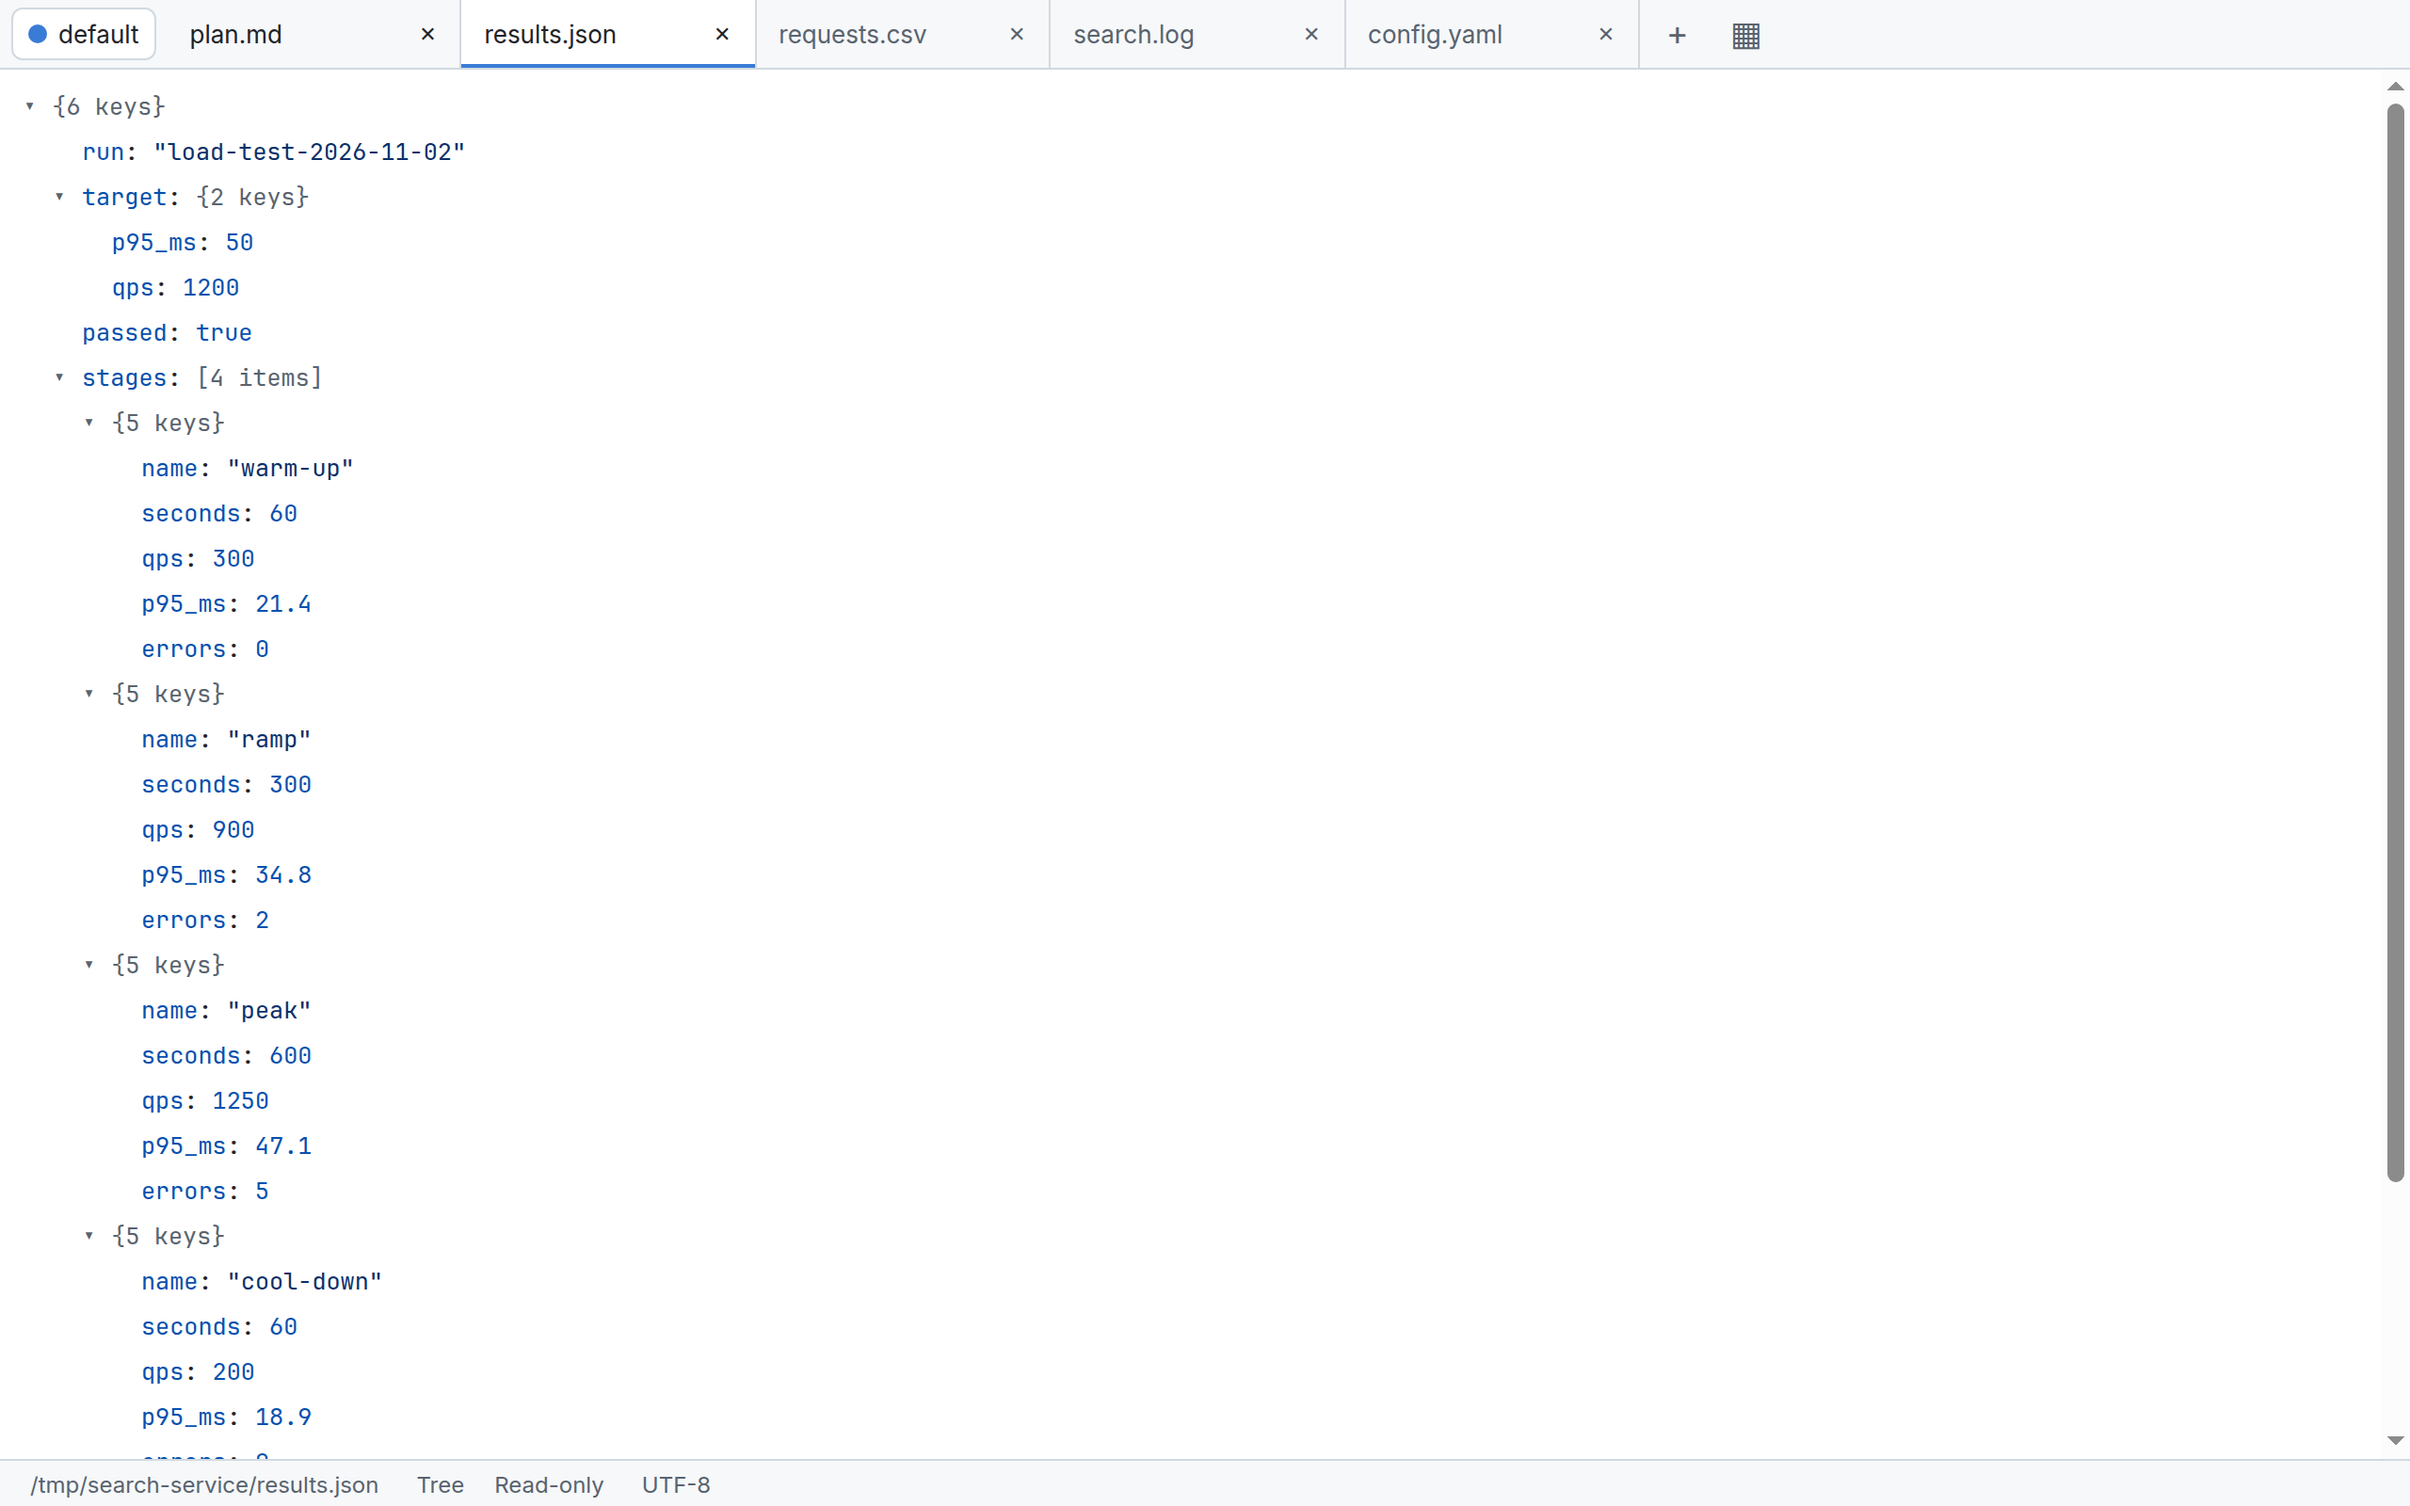
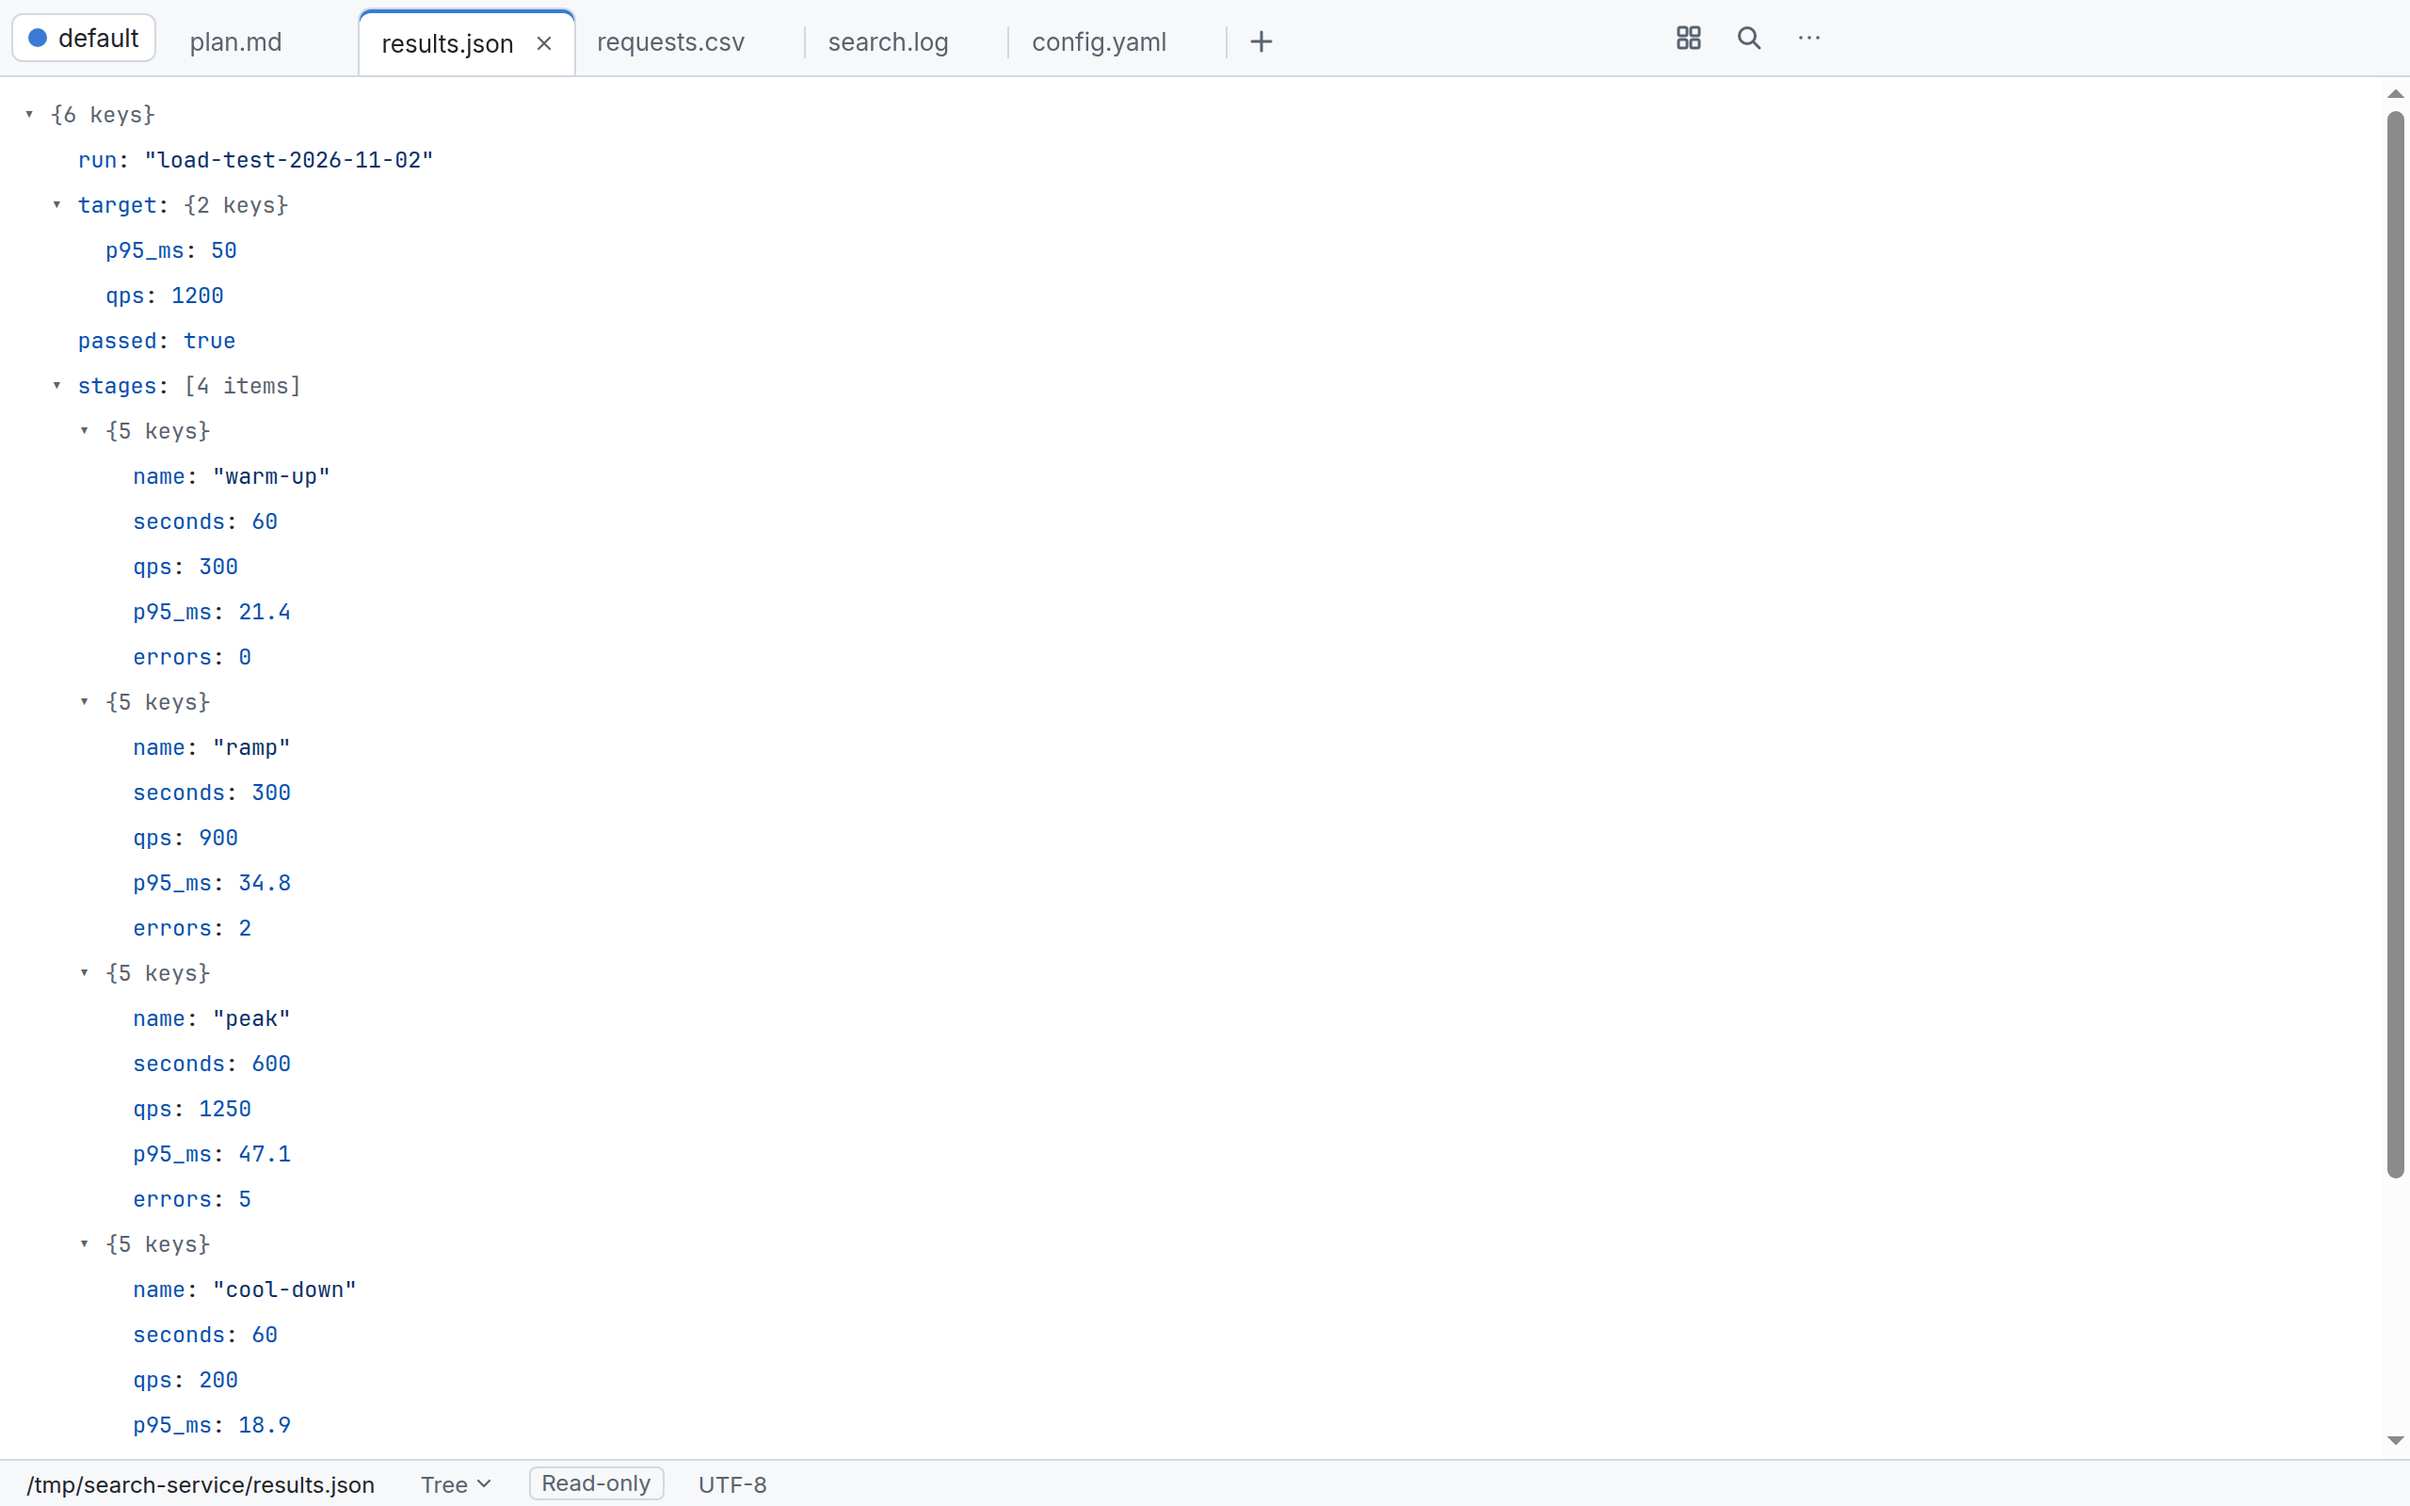
docs: the 0.7 features in the README, architecture and validation, and new site screenshots

diff --git a/docs/VALIDATION.md b/docs/VALIDATION.md
@@ -63,6 +63,9 @@ Record the date, the build and the result of each row.
 | Orca: callouts, front matter and task counts (v0.6) | A `> [!WARNING]` reads its title, then its text; flat front matter reads as a list of terms and values; Ctrl+Shift+O reads a heading as "Plan (2 of 5 tasks done)"; the status bar says "7 of 12 tasks" | Pass (2026-11-05, `.deb` 0.6.0) |
 | Task boxes and Tab by keyboard, then Orca (v0.6) | Reading: Tab to a task box, Space ticks it in the file (`cat` shows `[x]`), Orca reads "checkbox, checked". Edit mode: Tab indents a list line, Shift+Tab un-indents; Esc then Tab, and Ctrl+M then Tab, move the focus out of the editor; Orca reads the editor's description | Pass (2026-11-05, `.deb` 0.6.0) |
 | Orca: broken links (v0.6) | A link to a file that doesn't exist has a wavy underline; Orca reads it with "file not found" | Pass (2026-11-05, `.deb` 0.6.0) |
+| The new look by keyboard, then Orca (v0.7) | In light and dark, both tab layouts: Tab reaches `+`, `▦`, `⌕`, `⋯` and the status bar's view menu, Follow, zoom and width, each with a visible 1 px ring; Orca reads each button's name with its shortcut ("Search tabs (Ctrl+Shift+A)") | Not run (0.7.0) |
+| Menus by keyboard, then Orca (v0.7) | Shift+F10 on a tab opens its menu (Pin, Move…, Copy path…), on a document the document's (Back, Find…, Edit, Export to PDF…); Orca reads each entry; a pinned tab reads "…, pinned" | Not run (0.7.0) |
+| Copy buttons, then Orca (v0.7) | Tab to a code block's Copy button: it shows, Orca reads "Copy code"; Enter copies and Orca says "Copied" | Not run (0.7.0) |
 
 ## Performance
 
@@ -195,6 +198,9 @@ these.
 | `galeo file.md` while galeo is on another workspace: GNOME's "galeo is ready" notice, no workspace switch | Pass (2026-10-05, Ubuntu 26.04; 0.2.0 `.deb`, 2026-10-15; 0.4.0 `.deb`, 2026-10-28) |
 | Live reload from a real editor or agent: in place, no jump, `↻` for about a second | Pass (2026-10-05) |
 | Following an agent (v0.6): an agent rewriting a plan in a background tab gives it the blue `•`; showing it marks what changed, the plan's task count follows, and ticking a box while reading writes the file (an editor open on it reloads) | Pass (2026-11-05, `.deb` 0.6.0) |
+| Pinned tabs (v0.7): pin a tab from its right-click menu; it moves first with a pin, in both layouts; it stays pinned after quitting and starting again; Unpin puts it back among the others | Not run (0.7.0) |
+| Copy and share (v0.7): a code block's Copy pastes into a terminal; *Copy as rich text* pastes into LibreOffice Writer with headings, bold and code; the viewer's Save as SVG… and Save as PNG… open in an image viewer; *Export to PDF…* in dark mode opens in the document viewer as a light page with no bars | Not run (0.7.0) |
+| Profile launcher (v0.7): Settings → Profile launcher → Add to applications: "galeo — <profile>" shows in the GNOME app grid and opens that profile; Remove takes it out; deleting the profile removes it | Not run (0.7.0) |
 | Quick open in a real repository: dot folders listed, `node_modules` not; Ctrl+Enter opens a new window | Pass (2026-10-05) |
 | Palette: F11 toggles full screen; "Toggle edit mode" only says "Press Ctrl+E" | Pass (2026-10-05) |
 | Mermaid in real documents (edge labels, line breaks, subgraphs) draws, follows light/dark, and a broken one shows its error | Pass (2026-10-05, after the sanitizer fix) |

diff --git a/README.md b/README.md
@@ -59,10 +59,14 @@ shows how to get past them.
   and permissions.
 - **Data and code**: JSON as a tree, CSV and TSV as a table, YAML, TOML and source code
   highlighted, MDX rendered with nothing in it running.
-- **Tabs, windows and profiles**: browser-like tabs, on top or on the left, that move between
-  windows; sessions that come back after a restart; a profile per project.
-- **Keyboard first**: quick open (Ctrl+P), a command palette (Ctrl+Shift+P), search tabs
-  (Ctrl+Shift+A), a tab overview (Ctrl+Shift+E) and find in all tabs (Ctrl+Shift+F).
+- **Tabs, windows and profiles**: browser-like tabs, on top or on the left, that pin and move between
+  windows; sessions that come back after a restart; a profile per project, with its own launcher on
+  Linux.
+- **Sharing what you read**: copy a code block or the whole document as rich text, save a diagram as
+  SVG or PNG, export a document to PDF.
+- **Keyboard first, mouse too**: quick open (Ctrl+P), a command palette (Ctrl+Shift+P), search tabs
+  (Ctrl+Shift+A), a tab overview (Ctrl+Shift+E) and find in all tabs (Ctrl+Shift+F), each also a
+  button or a right-click menu entry.
 - **Private**: no network connections, documents can't run scripts, and Chromium's sandbox is on.
 
 The [usage guide](docs/USAGE.md) covers all of it.

diff --git a/docs/ARCHITECTURE.md b/docs/ARCHITECTURE.md
@@ -200,6 +200,12 @@ flowchart LR
   Main and offers the page ids for the files it lists, never paths to request.
   The window keys (new window, close window, quit, full screen) are taken there too, so they
   work while a page is busy; the palette asks for the same four over `window.command`.
+- (v0.7) The tab's and the document's right-click menus are native menus Main builds and shows
+  (`DocumentMenus`): Main acts on the path entries and Edit itself and hands the page back only the
+  command to run; a choice earns the window one input credit, as a key press does. The writes
+  outside edit mode (a diagram's SVG or PNG, `diagrams.save`; a PDF, `documents.exportPdf` then
+  `printPdf`; a profile's launcher) go only to a path Main's own save dialog returned, or to the
+  user's applications folder for that profile, each for real input (threat model SR-12).
 - Main runs one **profile runtime** per running profile: its settings (watching `settings.json`,
   `profile.json` and both `custom.css`), session, recent files and windows. Every open request
   (first launch, a forwarded launch, the macOS dock) goes through one queue: argv parser →
